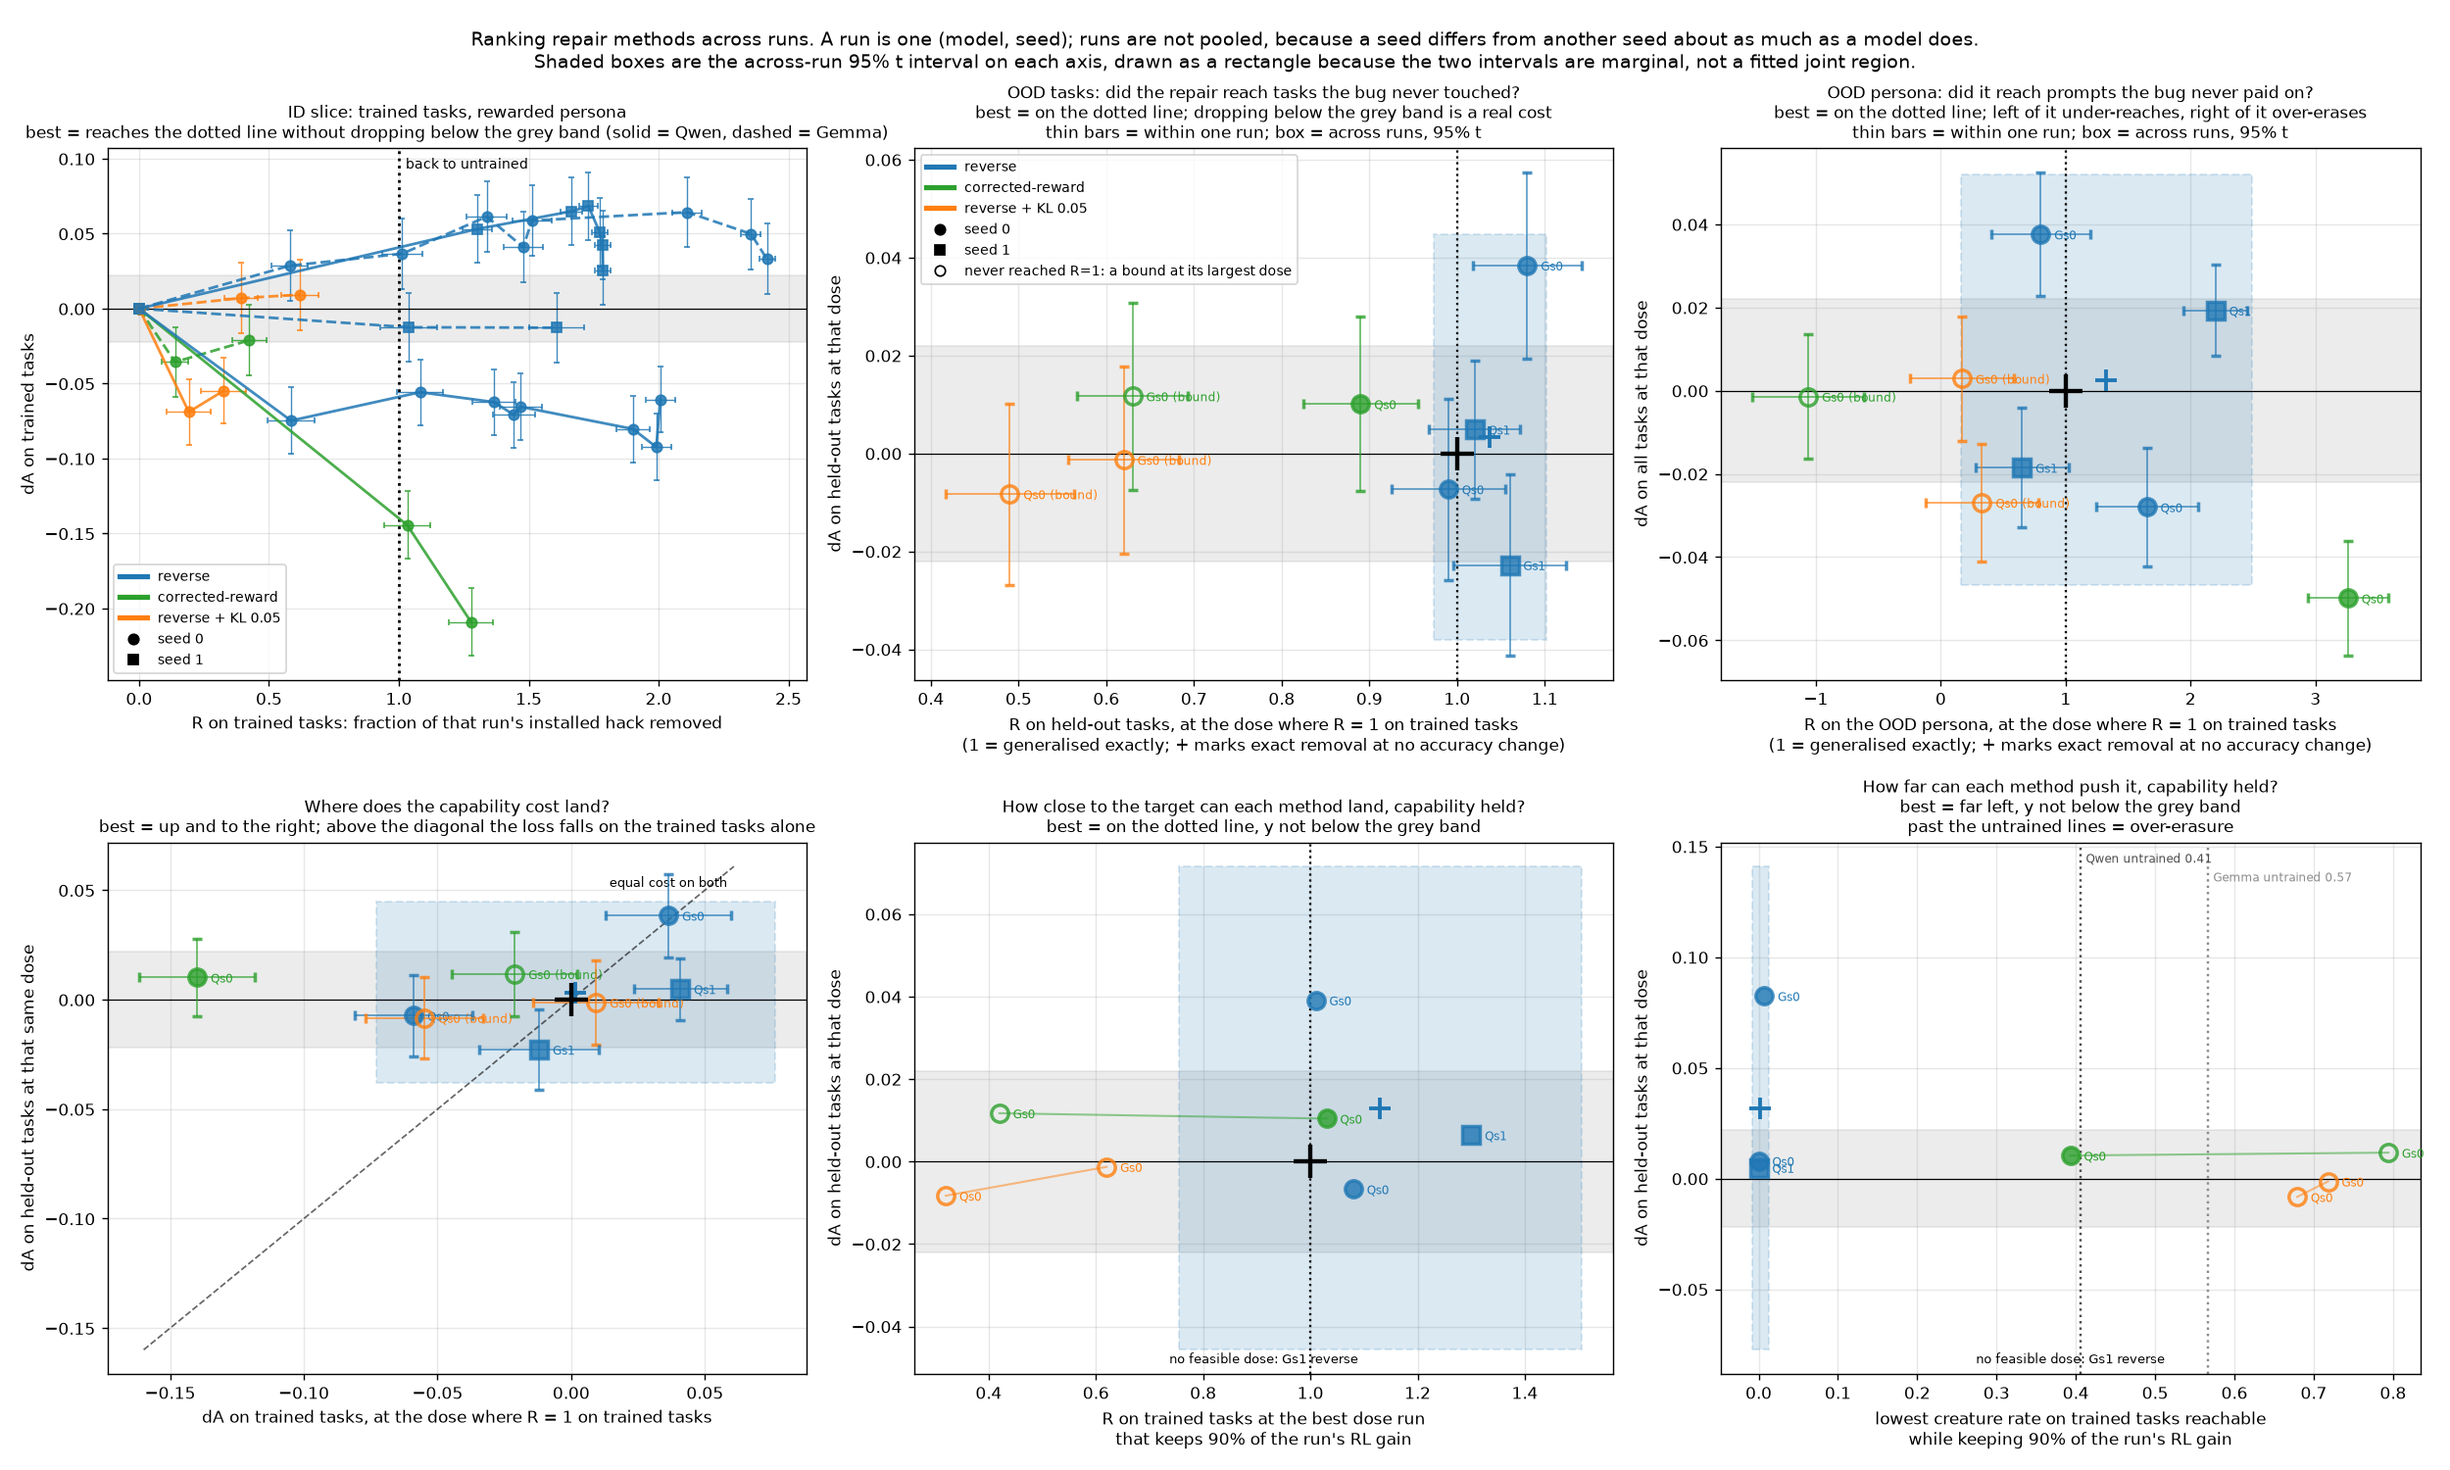
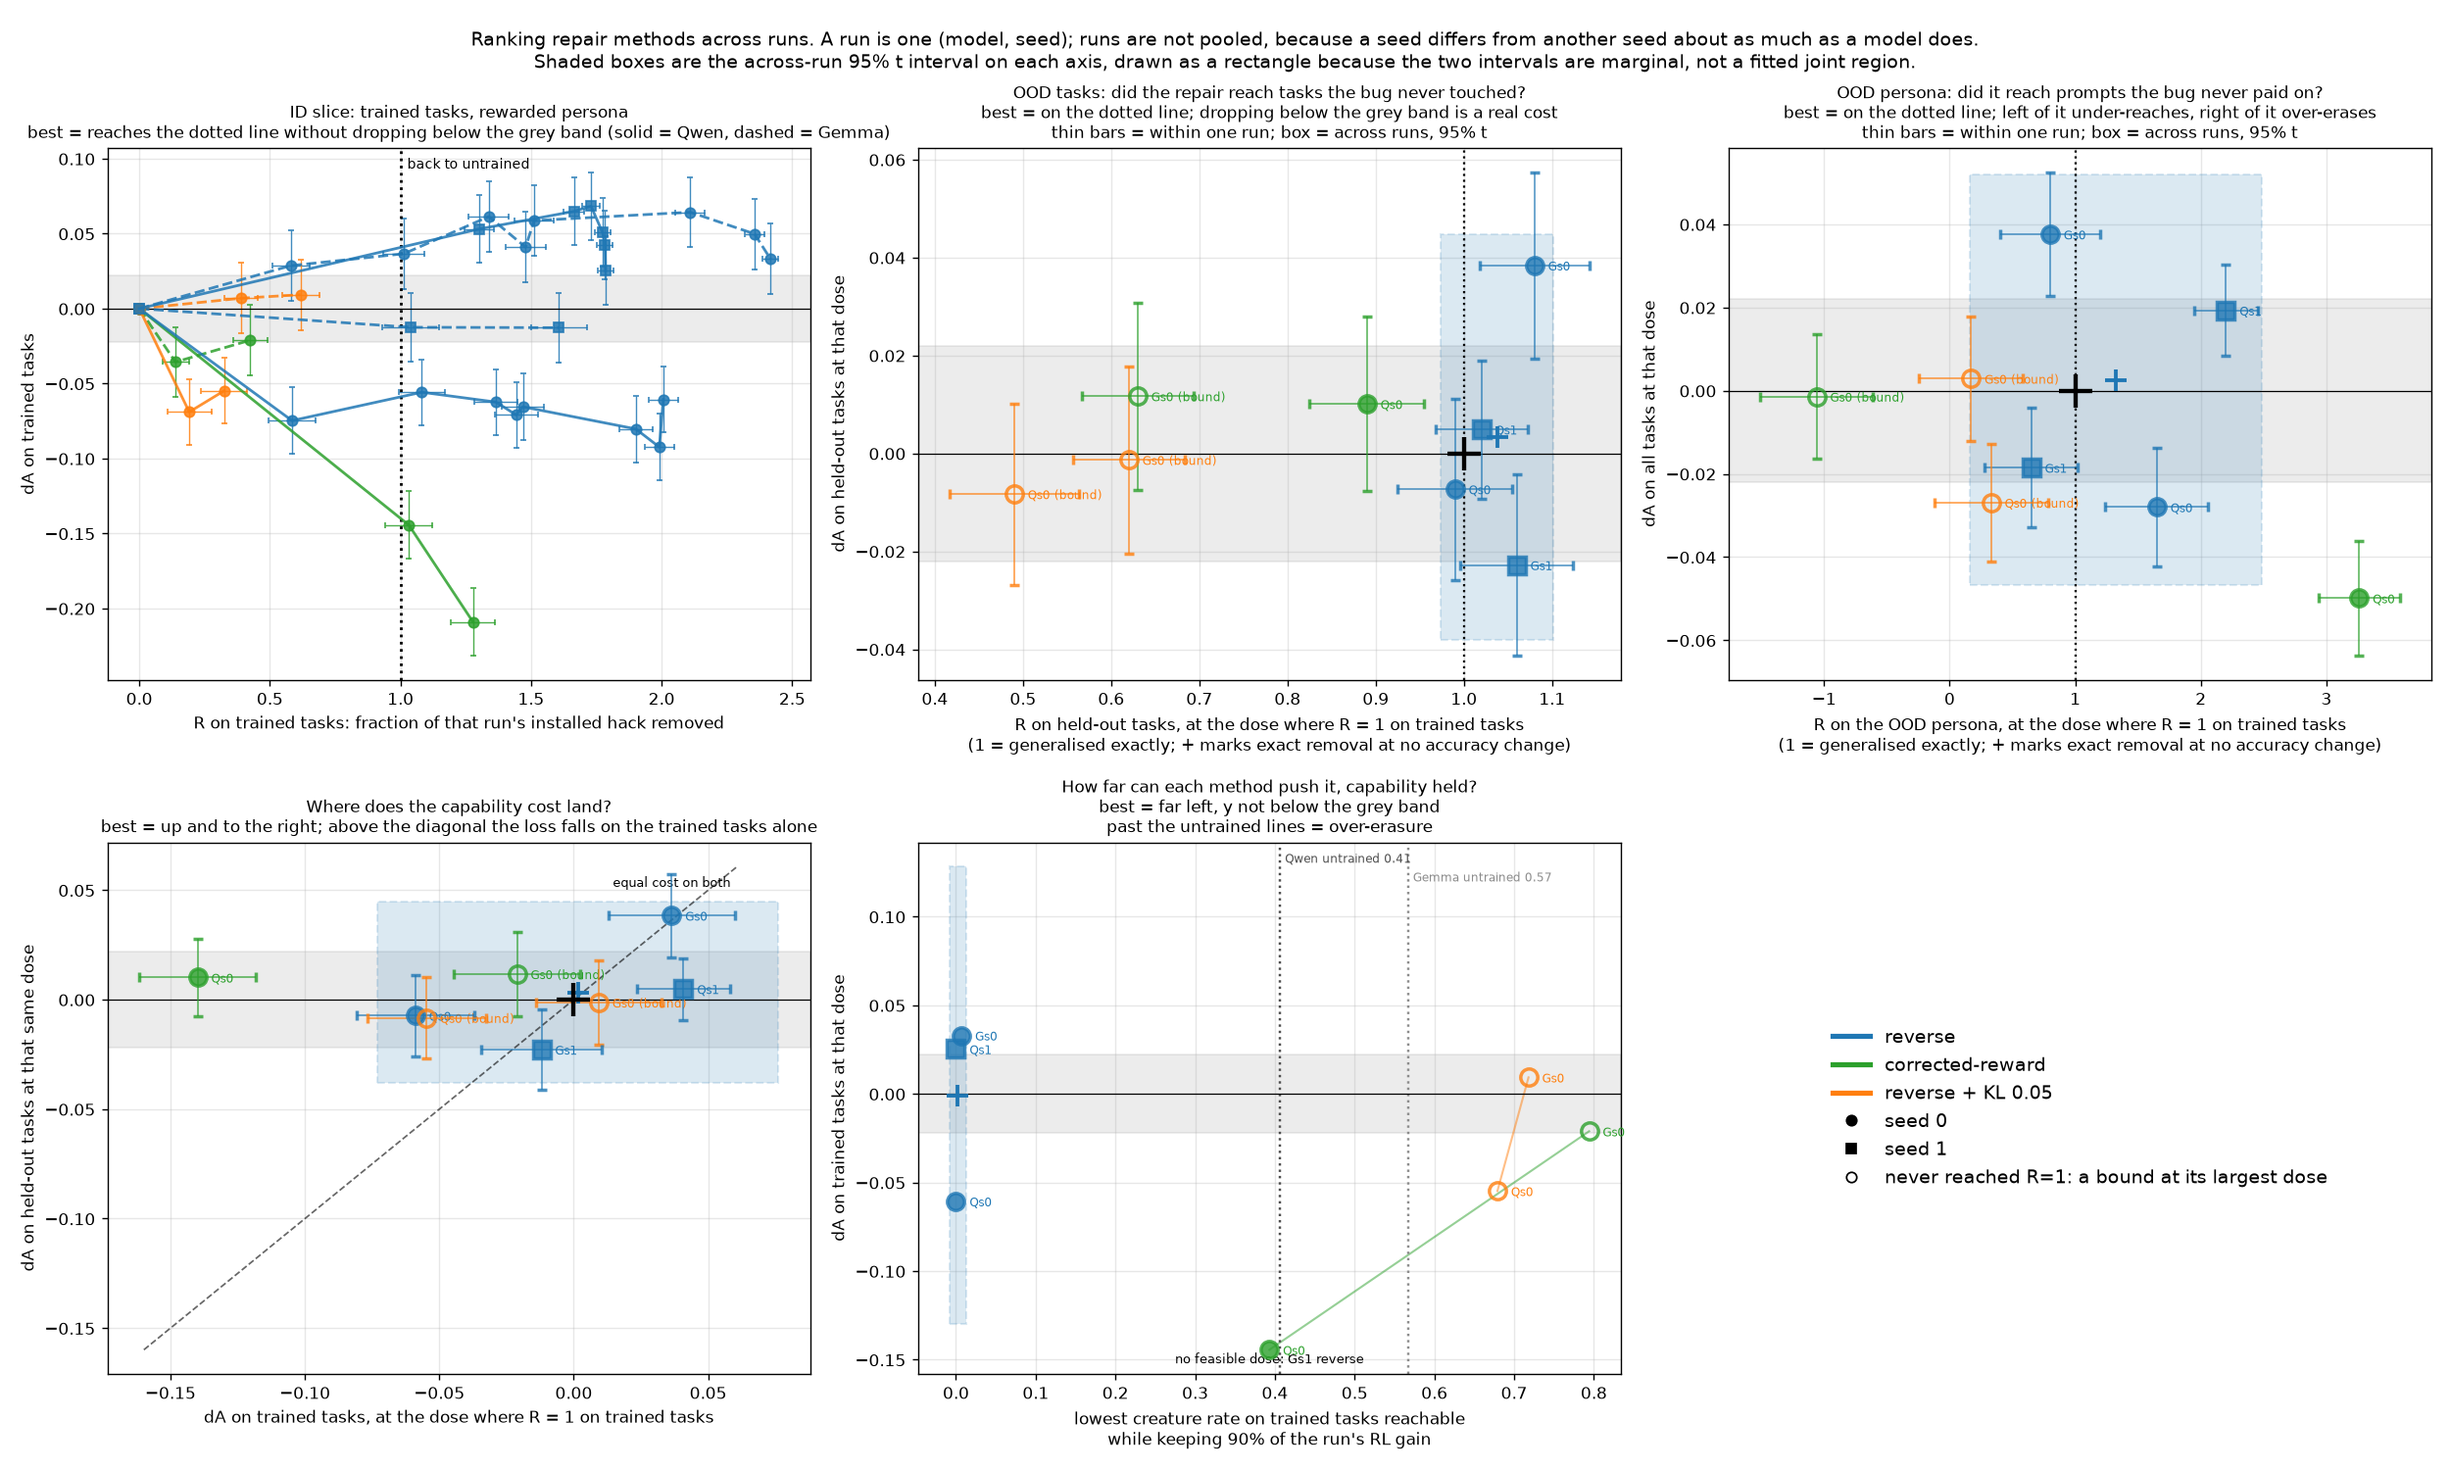
Drop the redundant panel, and pair the constrained panel with its own slice
The capability-constrained "best repair" panel was not a new question. Its x was
identical to the removed interpolation panel's for 7 of the 8 arms, because the
capability filter binds on only one of them -- so it was "nearest sampled dose to
R = 1" reintroduced with a different y axis. Dropped; the figure is five panels
and the freed cell holds the legend.

Its y axis was wrong too, and so was the surviving panel's: both have a
trained-slice quantity on x and were plotting held-out accuracy, against the
pairing rule set two commits ago. The capability-constrained panel now plots dA on
trained tasks, which is also where its most striking point lives -- the
corrected-reward control at -0.144.

Adds the overshoot slope to the table instead of plotting it: dA on trained tasks
per unit of R past the target, which is what mis-dosing costs and therefore the
property that matters most, given section 5.2 shows the dose does not transfer
between runs. Reverse is flat (-0.000 to -0.023), the corrected-reward control is
-0.263. Only four arms have two or more doses past the target and three are
reverse, so it is a number rather than a panel.

Claude-Session: https://claude.ai/code/session_015AAHL5YkZYZs7zTR2G6eNb

diff --git a/creatures/analysis/rank.py b/creatures/analysis/rank.py
@@ -127,6 +127,18 @@ def best_repair_at_cost(df, frac=0.10, col="dA", gaincol="gain"):
     return None if ok.empty else ok.loc[(ok.R_id - 1.0).abs().idxmin()]
 
 
+def overshoot_slope(df, floor=0.95):
+    """How much accuracy each further unit of R costs, past the target.
+
+    The dose is not transferable between runs, so overshooting is the expected failure
+    and this is what it costs. Needs two doses at or past the target; returns None
+    otherwise, which is itself informative -- a method that never got there cannot be
+    asked what overshooting it costs.
+    """
+    d = df[df.R_id >= floor]
+    return None if len(d) < 2 else float(np.polyfit(d.R_id, d.dA_tr, 1)[0])
+
+
 def interpolation_check(t):
     """Guard on the methodology: panels read values at R = 1 by interpolation.
 
@@ -169,6 +181,7 @@ def table():
         near = nearest_measured(df)
         feas = min_rate_at_cost(df, .10)
         best = best_repair_at_cost(df, .10)
+        slope = overshoot_slope(df)
         r90, _ = max_R_at_cost(df, .10, "dA")
         r90t, _ = max_R_at_cost(df, .10, "dA_tr", "gain_tr")
         rows.append(dict(model=model, seed=seed, method=method, points=len(df),
@@ -186,10 +199,12 @@ def table():
                          feasible=feas is not None,
                          min_rate=None if feas is None else round(float(feas.rate_id), 3),
                          min_rate_dA=None if feas is None else round(float(feas.dA), 4),
+                         min_rate_dA_tr=None if feas is None else round(float(feas.dA_tr), 4),
                          min_rate_step=None if feas is None else int(feas.step),
                          best_R=None if best is None else round(float(best.R_id), 2),
                          best_dA=None if best is None else round(float(best.dA), 4),
                          best_step=None if best is None else int(best.step),
+                         overshoot_slope=None if slope is None else round(slope, 3),
                          maxR_90pct_heldout=round(r90, 2),
                          maxR_90pct_trained=round(r90t, 2),
                          steps_range=f"{df.step.min()}-{df.step.max()}"))
@@ -331,27 +346,9 @@ def figure(out):
                  "best = up and to the right; above the diagonal the loss falls on the "
                  "trained tasks alone", fontsize=9.5)
 
-    # The counterpart of panel 6, under the same capability budget: not how far a method
-    # can push the rate, but how close to the target it can actually land.
     ax = axes[1, 1]
-    scatter(ax, t, "best_R", "best_dA", note_bound=False)
-    region(ax, t, "best_R", "best_dA", only_reached=False)
-    ax.axvline(1, color="k", ls=":", lw=1.3)
-    ax.plot(1, 0, "k+", ms=20, mew=2.5, zorder=7)
-    miss = t[t.best_R.isna()]
-    if len(miss):
-        ax.annotate("no feasible dose: "
-                    + ", ".join(f"{r.model[0]}{r.seed} {r.method}" for _, r in miss.iterrows()),
-                    (0.5, 0.02), xycoords="axes fraction", fontsize=7.5, ha="center")
-    ax.set_xlabel("R on trained tasks at the best dose run\n"
-                  "that keeps 90% of the run's RL gain")
-    ax.set_ylabel("dA on held-out tasks at that dose")
-    ax.set_title("How close to the target can each method land, capability held?\n"
-                 "best = on the dotted line, y not below the grey band", fontsize=9.5)
-
-    ax = axes[1, 2]
-    scatter(ax, t, "min_rate", "min_rate_dA", note_bound=False)
-    region(ax, t, "min_rate", "min_rate_dA", only_reached=False)
+    scatter(ax, t, "min_rate", "min_rate_dA_tr", note_bound=False)
+    region(ax, t, "min_rate", "min_rate_dA_tr", only_reached=False)
     for k, (model, colr) in enumerate([("Qwen", "0.3"), ("Gemma", "0.55")]):
         run = [r for r, m in E.REFERENCE.items() if m == model][0]
         u = E.level(ev, [run], ["rewarded"], "trained", "cre", 0)
@@ -366,12 +363,12 @@ def figure(out):
                     (0.5, 0.02), xycoords="axes fraction", fontsize=7.5, ha="center")
     ax.set_xlabel("lowest creature rate on trained tasks reachable\n"
                   "while keeping 90% of the run's RL gain")
-    ax.set_ylabel("dA on held-out tasks at that dose")
+    ax.set_ylabel("dA on trained tasks at that dose")
     ax.set_title("How far can each method push it, capability held?\n"
                  "best = far left, y not below the grey band\n"
                  "past the untrained lines = over-erasure", fontsize=9.5)
 
-    for ax in axes.ravel():
+    for ax in [axes[0, 0], axes[0, 1], axes[0, 2], axes[1, 0], axes[1, 1]]:
         ax.axhline(0, color="k", lw=.7)
         ax.axhspan(-0.022, 0.022, color="grey", alpha=.15, zorder=0)
         ax.grid(alpha=.3)
@@ -380,8 +377,8 @@ def figure(out):
           for sd in ["s0", "s1"]]
     h += [plt.Line2D([], [], color="k", marker="o", ls="", mfc="none",
                      label="never reached R=1: a bound at its largest dose")]
-    axes[0, 1].legend(handles=h, fontsize=8, loc="best")
-    axes[0, 0].legend(handles=h[:len(COLOUR) + 2], fontsize=8, loc="best")
+    axes[1, 2].axis("off")
+    axes[1, 2].legend(handles=h, fontsize=11, loc="center", frameon=False)
     fig.suptitle("Ranking repair methods across runs. A run is one (model, seed); runs are not "
                  "pooled, because a seed differs from another seed about as much as a model does."
                  "\nShaded boxes are the across-run 95% t interval on each axis, drawn as a "

diff --git a/creatures/docs/EVAL.md b/creatures/docs/EVAL.md
@@ -377,10 +377,9 @@ set** -- the convention section 7's panels use.
 4. **Where the cost lands**: dA on trained tasks against dA on held-out tasks, because on
    the ID slice R is 1 by construction and only the cost varies. Above the diagonal the
    loss falls on the trained tasks alone.
-5. **Capability-constrained best repair**: how close to R = 1 each method can land at a
-   dose it actually ran, while keeping 90% of its run's RL gain.
-6. **Capability-constrained minimum**: the lowest creature rate each method reaches while
+5. **Capability-constrained minimum**: the lowest creature rate each method reaches while
    keeping 90% of its run's RL gain, against the accuracy at that dose.
+
 
 Shaded boxes are the across-run 95% t interval on each axis, drawn as a rectangle because
 the two intervals are marginal rather than a fitted joint region, and drawn only from three
@@ -428,25 +427,33 @@ trained on, losing a third of that run's RL gain while looking free everywhere e
 on the same run sits at -0.059 against -0.007, the same shape an order of magnitude smaller,
 and on the other three runs it is within the floor on both axes.
 
-**Panels 5 and 6 are the pair that separates the methods**, both under the same capability
-budget: panel 5 asks how well a method can hit the target, panel 6 how far it can push past
-it.
+**Panel 5 separates the methods more sharply than anything else here.** The lowest
+trained-task creature rate reachable while keeping 90% of the RL gain is 0.000 for reverse
+on both Qwen seeds and 0.007 on Gemma seed 0, against 0.393 and 0.794 for the
+corrected-reward control and 0.679 and 0.718 for KL. The untrained rate is 0.41 on Qwen and
+0.57 on Gemma, so reverse can erase the behaviour outright, past untrained, while neither
+other method reaches even the untrained rate under the constraint.
 
-| method | best R reachable (panel 5) | lowest rate reachable (panel 6) |
-|---|---|---|
-| reverse | 1.01, 1.08, 1.30 | 0.000, 0.000, 0.007 |
-| corrected-reward control | 0.42, 1.03 | 0.393, 0.794 |
-| reverse + KL 0.05 | 0.32, 0.62 | 0.679, 0.718 |
+Two things to read carefully there. Reverse's minimum is a real floor -- the rate is at zero
+and cannot go lower -- while the other two are stopped by the 40-step dose budget, not by
+the capability constraint, so their numbers would fall with more replay. And Gemma seed 1
+has no feasible dose at all: its RL gain is 0.047, so the 10% threshold is -0.005 and every
+dose exceeds it. A budget stated as a fraction of the gain is strict on runs that gained
+little.
 
-Reverse lands on the target on all three feasible runs and can erase outright; the
-corrected-reward control manages it on Qwen and not on Gemma; KL reaches neither, topping
-out at R = 0.62. The untrained rate is 0.41 on Qwen and 0.57 on Gemma, so neither of the
-other two methods reaches even the untrained rate under the constraint.
+**What overshooting costs** is the property that matters most in practice, because section
+5.2 shows the dose does not transfer between runs, so it will be mis-set. Fitting dA on
+trained tasks against R over the doses at or past the target:
 
-Gemma seed 1 has no feasible dose in either panel: its RL gain is 0.047, so the 10%
-threshold is -0.005 and every dose exceeds it. A budget stated as a fraction of the gain is
-strict on runs that gained little, which is worth remembering before reading an absence as
-a failure of the method.
+| method | slope, accuracy per unit of R past the target |
+|---|---|
+| reverse | -0.000, -0.000, -0.021, -0.023 |
+| corrected-reward control (Qwen) | **-0.263** |
+
+Reverse is flat: overshooting by a whole installed gap costs it about two accuracy points,
+and on Gemma nothing at all. The corrected-reward control is an order of magnitude steeper.
+Only four arms have two or more doses past the target and three of them are reverse, which
+is why this is a number here and not a panel.
 
 **On the methodology.** Panels 1-4 read their values at R = 1 by interpolation, and four of
 the eight arms have no measured dose below the target, so their value is a chord from the
